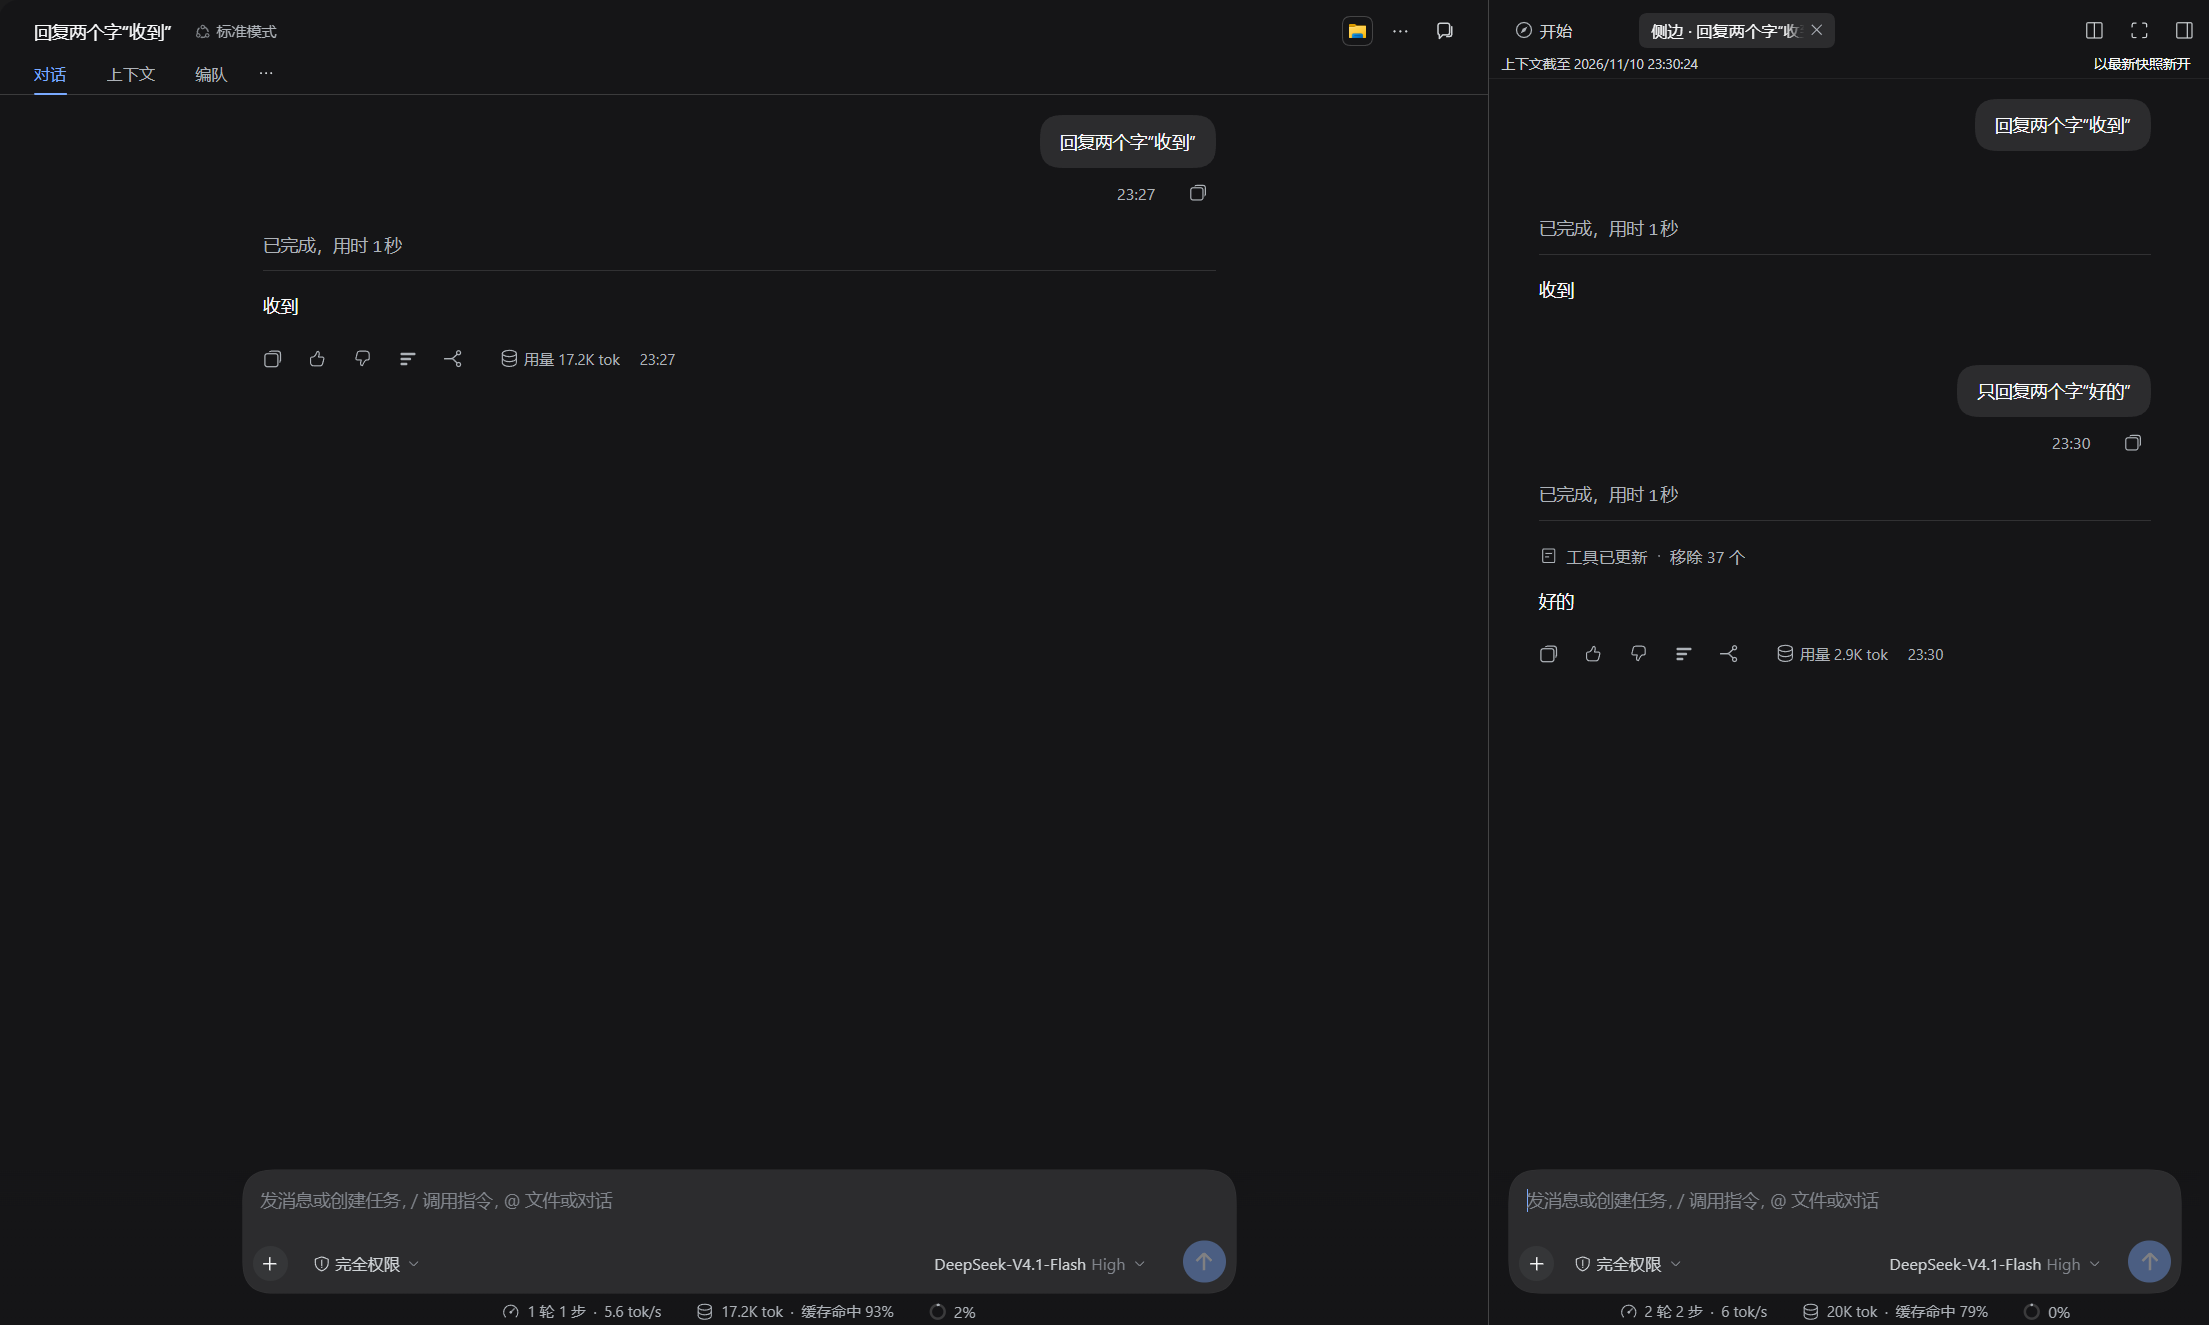
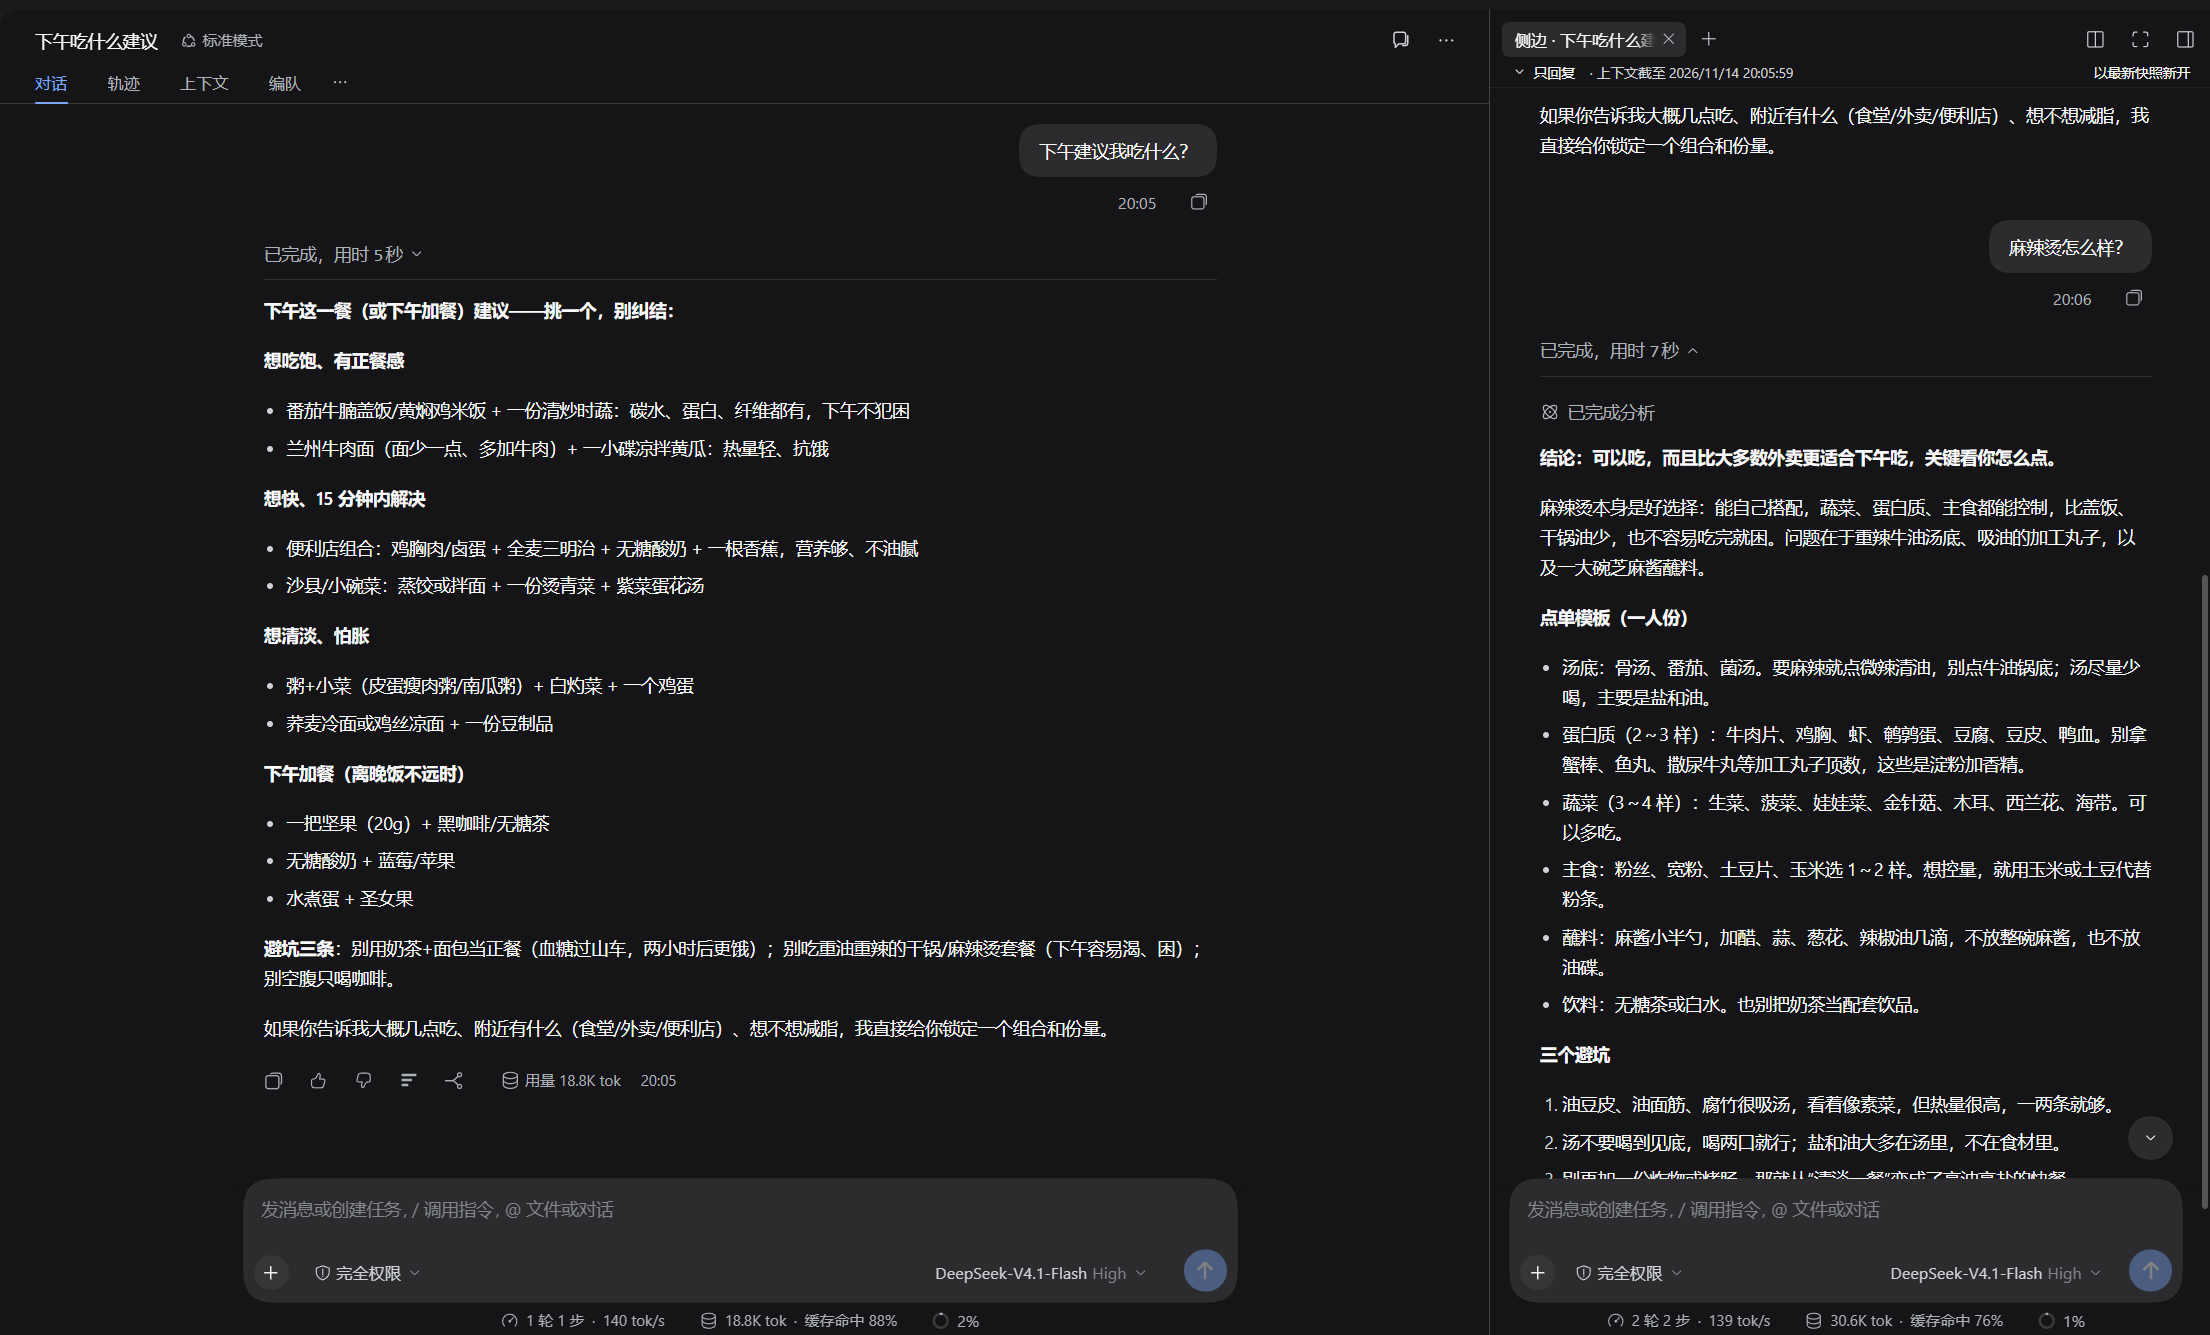
docs: refresh the 1.2.0 screenshots and rebuild the 1.0.0 release notes
The three README screenshots still showed the 1.0 UI; they now show the 1.2.0 status chip, its in-place switch menu and the entry card, plus two new ones (the tab's status bar and the injected boundary). The v1.0.0 release body was published with a broken code page (66 replacement characters); it is rebuilt from the tagged README into docs/releases/1.0.0.md and edited in place.

diff --git a/README.en.md b/README.en.md
@@ -16,7 +16,7 @@ Three modes — *reply only* / *read-only* / *fully inherited* — enforced in c
 
 ![Side chat overview: main session on the left, inherited side chat on the right](docs/images/overview.png)
 
-> Left: the main session. Right: a side chat seeded from its context. The「工具已更新 · 移除 37 个」line is the harness recording that the side chat's tool set really was cut down in *reply only* mode — not the prompt claiming it.
+> Left: the main session. Right: a side chat seeded from its context — the tab is titled「侧边 · …」and its status bar names the mode and the snapshot time. Answers stay on that side; nothing in the main session's history is rewritten.
 
 ---
 
@@ -32,7 +32,7 @@ A main session is one continuous, persisted context that every later request car
 
 ![Mode menu: reply only / read-only / fully inherited](docs/images/modes.png)
 
-*The mode menu: reply only / read-only / fully inherited. The last choice is remembered; the default is read-only.*
+*The mode menu on the tab's status bar: reply only / read-only / fully inherited — picking one switches the open thread in place. The choice is remembered; the default is read-only.*
 
 | | **Reply only** `reply` | **Read-only** `read` (default) | **Fully inherited** `full` |
 |---|---|---|---|
@@ -49,9 +49,9 @@ A main session is one continuous, persisted context that every later request car
 
 **Fully inherited** — same capabilities as the main session, different stance: the inherited history is reference, not a task; answers stay in the sidebar; a modification request gets a plan first, then exactly one question — *run it here, or in the main session?* Choosing "main session" prints the same suggestion block and stops all writes.
 
-![The side-chat entry card in the tool panel, its subtitle showing the current mode](docs/images/launcher.png)
+![The side-chat entry card in the tool panel, with its mode menu](docs/images/launcher.png)
 
-*Entry point: the side-chat card in the tool panel — its subtitle is the mode in force.*
+*Entry point: the side-chat card in the tool panel. Its `⌄` menu opens a **new** side chat — the subtitle turns into that hint while the menu is open.*
 
 ### Same sentence, three modes
 
@@ -126,6 +126,10 @@ Two entry points (tool panel card, conversation header button). Both the header 
 The mode menu beside the card title picks the mode for a **new** side chat: choosing one opens a new tab and closes the current one, so the old conversation (and everything it produced) is discarded. The card subtitle says so while the menu is open.
 
 The mode chip on the tab's status bar switches **in place**: same agent, same log, same conversation, nothing opened or closed. It takes effect on the next request (the tool list is re-declared and the host's own tool-change notice counts the additions and removals), and every switch permanently adds two user-role messages to that thread — a one-line「从 X 切到 Y」notice followed by the new mode's explanation. Switching to the mode the thread already has queues nothing. A tab restored from an older build without a recorded mode shows no chip and keeps the plain line instead of guessing.
+
+![The tab's status bar: the mode chip on the left, the fresh-snapshot action on the right](docs/images/status.png)
+
+*The tab's status bar: the mode chip on the left (opens the in-place switch), the「以最新快照新开」action on the right.*
 
 **Closing the tab deletes the side chat** — agent disposed, log file and directory removed. A boot sweep cleans up leftovers from crashes. If the dispose or the deletion fails, the thread is deliberately kept and the card offers「重试关闭」for exactly those threads.
 

diff --git a/docs/releases/1.0.0.md b/docs/releases/1.0.0.md
@@ -1,0 +1,45 @@
+# 1.0.0 — 侧边对话
+
+首个公开发布：在右侧栏开一条临时对话，继承当前会话的已提交上下文，回答只留在侧栏、不写回主会话。
+三种模式的约束落在**实现层**（宿主工具注册表），不是提示词自律。
+完整变更见 [CHANGELOG](https://github.com/Aixineiar/dsh-side-chat/blob/v1.0.0/CHANGELOG.md#100--2026-11-10)。
+
+## 三种模式
+
+| | **只回复** `reply` | **只读** `read`（默认） | **完全继承** `full` |
+|---|---|---|---|
+| 可用工具 | 无 | 只读名单（默认 12 项） | 与主会话完全一致 |
+| 请求里带的工具 schema | 不带（模型看不到任何工具） | 只有只读工具 | 全部 |
+| 系统提示里的工具说明段 | 全部剥掉 | 只留「能调用的工具」对应的段 | 全部保留 |
+| 写文件 / 执行命令 / 子代理 | 不存在 | 不存在 | 可以（受宿主权限与沙箱约束） |
+| 单步工具配额 | 不适用 | 每步 1 次只读调用 | 无 |
+| 收到修改请求时 | 输出「修改建议 · 待主会话执行」 | 同左，允许用那一步的读工具确认目标 | 先给计划，再只问一次「在本侧边会话执行，还是回主会话执行？」 |
+| 适合 | 要一句结论、纯问答 | 读代码 / 查历史后回答 | 在侧栏试改、验证命令 |
+
+这一版里模式是**新建时的属性**：换模式会新开一条侧边对话并关闭当前这条。从 1.2.0 起可以在页签顶栏就地切换。
+
+## 安装
+
+- 插件管理器里输入包名 `@aixineiar/dsh-side-chat`（底层走 pnpm 从 npm 安装，并自动写进 profile 的 `dsh.profile.bundles`）；
+- 或命令行：`pnpm add @aixineiar/dsh-side-chat`，然后手动把包名加进该 profile `package.json` 的 `dsh.profile.bundles`；
+- 也可以用仓库地址 `github:Aixineiar/dsh-side-chat` 或本地目录 `link:/path/to/dsh-side-chat`。
+
+环境：DSH 0.2.2-rc.1、Node ≥ 20。装完重启 DSH。
+
+## 验证
+
+`npm test` —— 自包含的引导模拟（用 stub 加载两半，不起 DSH）加客户端交互测试：三模式渲染的封闭名单等于实际下发的掩码、不可掩码的工具会被 guard 拒绝并记日志、边界标记带线程 id 与模式、种子保留事件信封字段、只读配额按步生效、拒绝文案形状一致、畸形 prompt 内容不会进日志。
+
+## 已知限制
+
+- **只读配额按「步」计**：一条消息的每一步各给一次只读机会，不是整轮一次。
+- **快照不跟进**：打开后主会话的新进展不会自动出现；需要时点「以最新快照新开」（会关闭当前侧栏对话）。
+- **需要主会话在线**：主会话未在左侧打开时无法打开侧边对话。
+- **关闭即删除**：日志与目录一起删，没有回收站。
+- **完全继承的风险由宿主的权限与沙箱决定**：本插件不额外收紧 `full` 的能力。
+
+## 安全
+
+工具裁剪由宿主工具注册表完成（`restrict` + `guard`），模型即使无视提示词也拿不到被裁掉的工具。所有控制动作走 `POST /dsh-side-chat/api`，先经宿主连接层鉴权；关闭前校验「这条会话确实是本插件创建的线程」。每个拒绝返回稳定错误码，页面只渲染本地字典里的句子。
+
+**License**：[MIT](https://github.com/Aixineiar/dsh-side-chat/blob/v1.0.0/LICENSE)

diff --git a/README.md b/README.md
@@ -16,7 +16,7 @@
 
 ![侧边对话总览：左侧主会话，右侧继承上下文的侧边对话](docs/images/overview.png)
 
-> 左：主会话。右：从它继承上下文的侧边对话。中间那行「工具已更新 · 移除 37 个」是**只回复**模式打开时把全部工具摘掉的宿主记录 —— 不是提示词说「你没有工具」，而是这条会话的工具集真的被裁掉了。
+> 左：主会话。右：从它继承上下文的侧边对话 —— 页签标题带「侧边 ·」前缀，状态栏写着当前模式与快照时间。回答只留在这半边，主会话的历史一个字都不会被改写。
 
 ---
 
@@ -63,7 +63,7 @@
 
 ![模式菜单：只回复 / 只读 / 完全继承](docs/images/modes.png)
 
-*模式菜单：只回复 / 只读 / 完全继承。*
+*模式菜单：只回复 / 只读 / 完全继承 —— 页签顶栏那个按钮，选完就地生效。*
 
 | | **只回复** `reply` | **只读** `read`（默认） | **完全继承** `full` |
 |---|---|---|---|
@@ -129,9 +129,9 @@
 
 **打开前**：入口卡片（工具面板里的「侧边对话」）副标题会实时显示当前模式：
 
-![工具面板中的侧边对话入口卡片，副标题显示当前状态：只回复](docs/images/launcher.png)
+![工具面板中的侧边对话入口卡片与其模式菜单](docs/images/launcher.png)
 
-*入口：工具面板里的「侧边对话」卡片，副标题就是当前模式。*
+*入口：工具面板里的「侧边对话」卡片；右侧 `⌄` 是「新建一条」的模式菜单（菜单打开时副标题换成提示）。*
 
 卡片右侧的 `⌄` 打开模式菜单。**卡片里的选择 = 新建**：它会新开一条侧边对话并关闭当前这条（菜单打开时卡片副标题会提示这一点），当前对话里已经生成的内容随之丢弃。选择记在浏览器 `localStorage`，下次仍是这个模式。
 
@@ -260,6 +260,10 @@ pnpm remove @aixineiar/dsh-side-chat
 | 停止 | 输入框的停止按钮 | 中断当前轮 |
 | 以最新快照新开 | 页签顶栏 | 用主会话当前最新快照新开一条，并**关闭当前这条**（会丢弃这条侧栏对话） |
 
+![页签顶栏：左边是模式标签，右边是「以最新快照新开」](docs/images/status.png)
+
+*页签顶栏：左边是当前模式（点开就地切换），右边是「以最新快照新开」。*
+
 **生命周期**
 
 | 阶段 | 行为 |
@@ -320,6 +324,10 @@ export const MODES = {
 2. 一条新模式说明，标记 `plugin:dsh-side-chat`，带线程 id 与模式 —— 和打开时那条同一个生成器。
 
 两条都进 `next-step`，同一个 step 按顺序 claim，所以最后读到的那条说明就是当前规则。日志里因此会有多条说明，**恢复时取最后一条**；重复切到当前模式不产生任何消息（宿主在写日志之前就短路）。拒绝路径（会话已结束 409 / 不属于本插件 403 / 模式名非法 400）都在动日志之前返回。
+
+![侧边对话边界：作为一条上下文注入写进会话日志](docs/images/boundary.png)
+
+*打开时写进日志的那条边界（上面那张卡片）。下面那行「工具已更新 · 移除 37 个」是宿主按新工具集自己记的 —— 不是提示词说「你没有工具」，而是这条会话的工具集真的被裁掉了。*
 
 **约束落在实现层**
 
